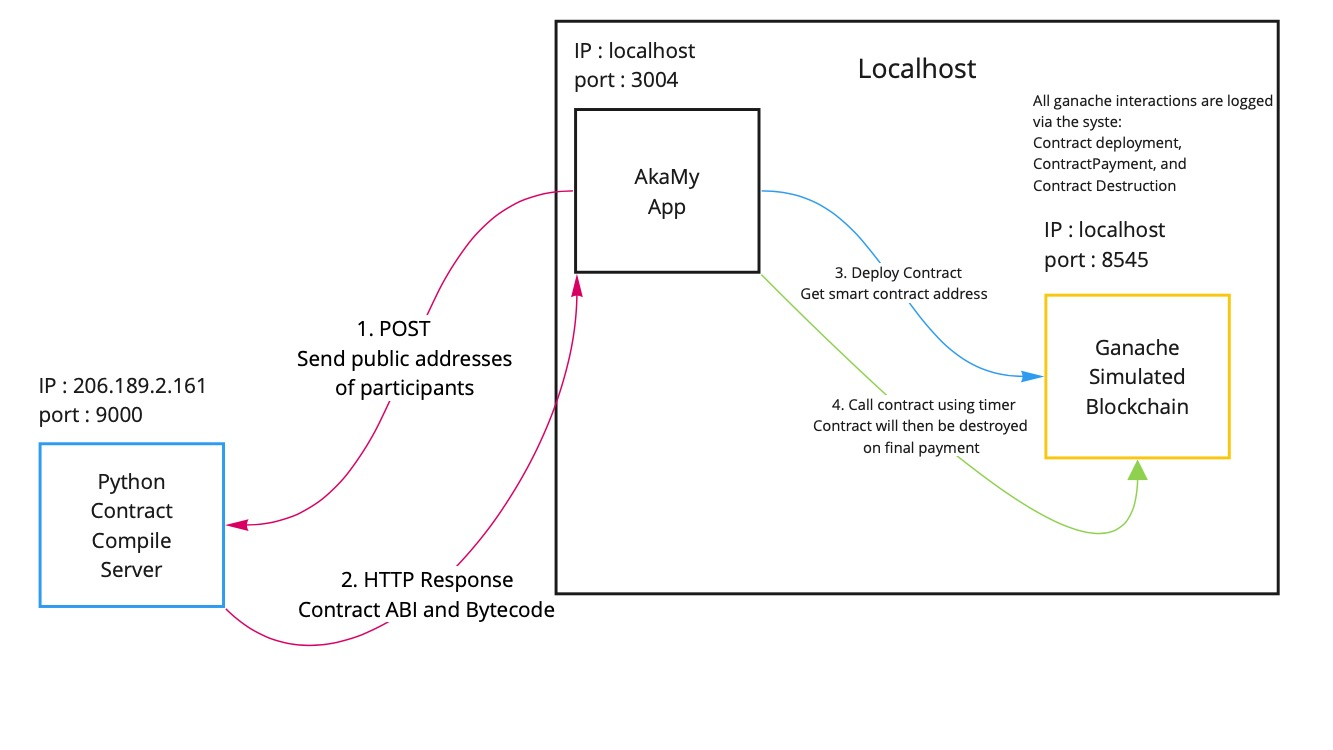
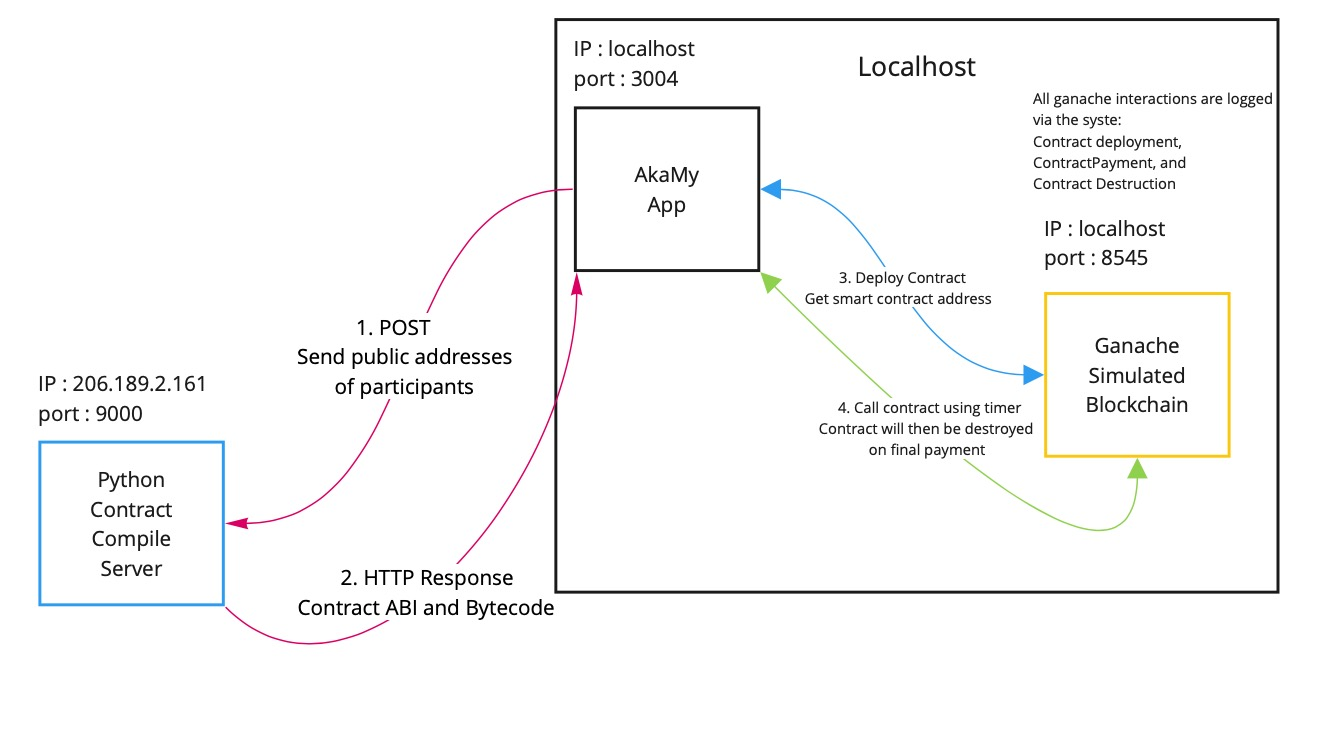
Update contract process photo, and adjust bugs, added ci badge

diff --git a/index.md b/index.md
@@ -2,6 +2,8 @@
    th, td { text-align: right; }
 </style>
 
+![ci-badge](https://github.com/akamy-rent/akamy-rent/workflows/akamy-rent/badge.svg)
+
 ## AkaMy-Rent project pages
 - [AkaMy-Rent organization page repository](https://github.com/akamy-rent/akamy-rent.github.io)
 - [AkaMy-Rent project repository](https://github.com/akamy-rent/akamy-rent)
@@ -101,6 +103,7 @@ Finding housing during University can be stressful for students. Homeowners are 
   - May possibly create an assortment of dummy accounts with metamask and utilize Ethereum test networks that are available. 
 
 <h1 id='M-1'>Milestone 1</h1>
+
 - [M1 project board](https://github.com/akamy-rent/akamy-rent/projects/1)
 - [Deployment to digital Ocean](http://161.35.148.180)
 
@@ -133,6 +136,7 @@ The messenger component allows users on the same contract to communicate with on
 ![messenger](./docs/mockups/20220414_messenger_mockup.gif)
 
 <h1 id='M-2'>Milestone 2</h1>
+
 - [M2 project board](https://github.com/akamy-rent/akamy-rent/projects/2)
 
 ## User guide
@@ -161,6 +165,7 @@ In AkaMy-Rents's current state you must initialize an insecure version of Chrome
 - Use the password is `pythonS3rver`
 - Run the python server script `python3 /home/akamy-rent/py-compile-server/test_server.py`
 - You should then see `Server started http://206.189.2.161:9000` signaling that your server is ready to receive input
+
 ##### Example of the server running
 
 ```
@@ -198,10 +203,13 @@ Server started http://206.189.2.161:9000
 - There will be a menu filled with 10 accounts that are usable. Near the top there's a series of labels, make sure RPC SERVER is set to `HTTP://127.0.0.1:8545`
   - If it's not set to that select the gear icon near the top right corner to change it.
   - Select `Server` in the navigation bar and make from there you can set it to the appropriate IP and port.
+
 ![accounts](./docs/smartContractTesting/GanacheAccounts.png)
+
 - Once your Ganache server IP and port have been set. Click the key icon to manually copy and paste `ACCOUNT ADDRESS` and `PRIVATE KEY` to however you store it
   - In M2 the testing page utilizes a contract object to a single homeowner and a single tenant. This object can be found in `/app/imports/api/solc/connect2compiler.js`
   - M3 should be communicating directly with the connections
+
 ![key-pairs](./docs/smartContractTesting/AccountInfo.png)
 
 #### Stage 3: Key information copied to application
@@ -215,5 +223,6 @@ Use the buttons from left to right
 - Use the smart contract timer function
 - Check transaction logs
   - Currently can only view it in console, will implement later on.
+
 #### Stage 4 completed: Test page can be used
 ![stage-4](./docs/smartContractTesting/contractProcess.jpg)
